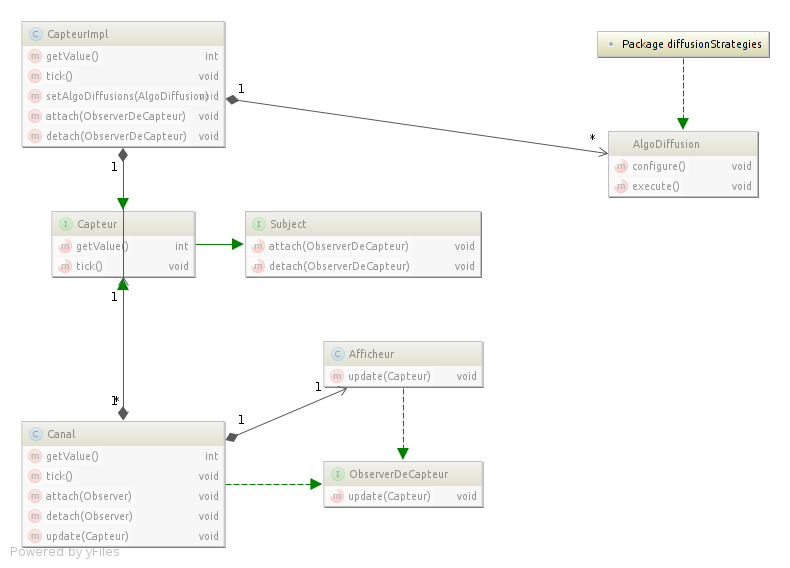
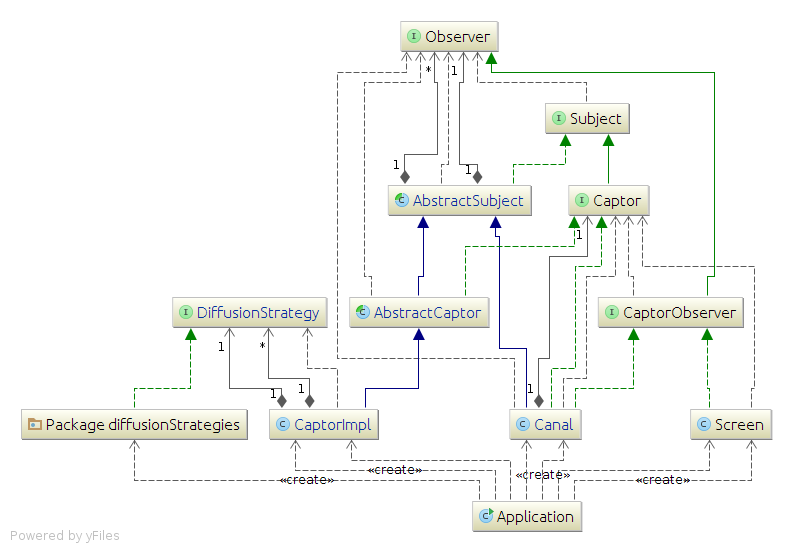
Add delay for canal transmission and refactoring packages

diff --git a/src/main/java/Application.java b/src/main/java/Application.java
@@ -1,6 +1,6 @@
-import org.istic.coa.tp.Screen;
-import org.istic.coa.tp.Canal;
-import org.istic.coa.tp.CaptorImpl;
+import org.istic.coa.tp.concreteArtefacts.Screen;
+import org.istic.coa.tp.concreteArtefacts.Canal;
+import org.istic.coa.tp.concreteArtefacts.CaptorImpl;
 import org.istic.coa.tp.diffusionStrategies.AtomicDiffusionStrategy;
 import org.istic.coa.tp.diffusionStrategies.EpocDiffusionStrategy;
 import org.istic.coa.tp.diffusionStrategies.SequentialDiffusionStrategy;
@@ -14,26 +14,28 @@ public class Application {
 
         // The capteur
         CaptorImpl capteur1 = new CaptorImpl(new AtomicDiffusionStrategy("atomic"));
-        capteur1.addDiffusionStrategy(new SequentialDiffusionStrategy("sequencial"));
+        capteur1.addDiffusionStrategy(new SequentialDiffusionStrategy("sequential"));
         capteur1.addDiffusionStrategy(new EpocDiffusionStrategy("epoque"));
 
         // First canal
         Canal canal1 = new Canal(capteur1);
         Screen screen1 = new Screen();
+        canal1.setDelay(250);
         canal1.attach(screen1);
 
         // Second canal
         Canal canal2 = new Canal(capteur1);
         Screen screen2 = new Screen();
+        canal1.setDelay(600);
         canal2.attach(screen2);
 
         // Value generation
-        for (int i= 0; i <= 9; i++) {
+        for (int i= 0; i <= 8; i++) {
             if (i >= 6) {
                 capteur1.selectDiffuseStrategy("epoque");
             }
             if (i >= 3 && i < 6) {
-                capteur1.selectDiffuseStrategy("sequenctial");
+                capteur1.selectDiffuseStrategy("sequential");
             }
             if (i < 3) {
                 capteur1.selectDiffuseStrategy("atomic");
@@ -41,11 +43,6 @@ public class Application {
             System.out.println("Tick with " + capteur1.getDiffusionStrategy() + " => " + i);
             capteur1.setValue(i);
             capteur1.tick();
-            try {
-                Thread.sleep(1000);
-            } catch (InterruptedException e) {
-                e.printStackTrace();
-            }
         }
 
     }

diff --git a/src/main/java/org/istic/coa/tp/concreteArtefacts/Canal.java b/src/main/java/org/istic/coa/tp/concreteArtefacts/Canal.java
@@ -1,5 +1,6 @@
-package org.istic.coa.tp;
+package org.istic.coa.tp.concreteArtefacts;
 
+import org.istic.coa.tp.implementationHelpers.AbstractSubject;
 import org.istic.coa.tp.interfaces.Captor;
 import org.istic.coa.tp.interfaces.Observer;
 import org.istic.coa.tp.interfaces.CaptorObserver;
@@ -11,15 +12,32 @@ import sun.reflect.generics.reflectiveObjects.NotImplementedException;
 public class Canal extends AbstractSubject implements Captor, CaptorObserver {
 
     private Captor captor;
+    private int delay;
 
+    /**
+     * Constrcutor
+     *
+     * @param captor connected to
+     */
     public Canal(Captor captor) {
         captor.attach(this);
         this.captor = captor;
         System.out.println(this + " initialized for captor " + captor);
     }
 
-    public int getValue() {
-        return captor.getValue();
+    public int getValue() throws InterruptedException {
+        int value = captor.getValue();
+        Thread.sleep(delay);
+        return value;
+    }
+
+    /**
+     * Returns the delay in milliseconds
+     *
+     * @return
+     */
+    public int getDelay() {
+        return delay;
     }
 
     public void tick() {
@@ -30,5 +48,12 @@ public class Canal extends AbstractSubject implements Captor, CaptorObserver {
         for (Observer obs: observers) {
             obs.update(this);
         }
+    }
+
+    /**
+     * Configure the transmission delay in milliseconds
+     */
+    public void setDelay(int delay) {
+        this.delay = delay;
     }
 }

diff --git a/src/main/java/org/istic/coa/tp/concreteArtefacts/Screen.java b/src/main/java/org/istic/coa/tp/concreteArtefacts/Screen.java
@@ -1,4 +1,4 @@
-package org.istic.coa.tp;
+package org.istic.coa.tp.concreteArtefacts;
 
 import org.istic.coa.tp.interfaces.Captor;
 import org.istic.coa.tp.interfaces.CaptorObserver;
@@ -9,14 +9,20 @@ import org.istic.coa.tp.interfaces.CaptorObserver;
 public class Screen implements CaptorObserver {
 
     protected String name;
+    private int value;
     private static int identifier = 0;
 
     public Screen() {
-        name = "Afficheur_" + ++identifier;
+        name = "Screen_" + ++identifier;
     }
 
-    public void update(Captor c) {
-        System.out.println(this + " got value " + c.getValue());
+    public void update(Captor captor) {
+        try {
+            value = captor.getValue();
+        } catch (InterruptedException e) {
+            e.printStackTrace();
+        }
+        System.out.println(this + " receive value " + value);
     }
 
     @Override

diff --git a/src/main/java/org/istic/coa/tp/implementationHelpers/AbstractCaptor.java b/src/main/java/org/istic/coa/tp/implementationHelpers/AbstractCaptor.java
@@ -1,4 +1,4 @@
-package org.istic.coa.tp;
+package org.istic.coa.tp.implementationHelpers;
 
 import org.istic.coa.tp.interfaces.Captor;
 import org.istic.coa.tp.interfaces.Observer;
@@ -27,7 +27,6 @@ public abstract class AbstractCaptor extends AbstractSubject implements Captor {
 
 
     public void tick() {
-        System.out.println(this + " has ticked with value " + value);
         for (Observer obs: observers) {
             obs.update(this);
         }

diff --git a/src/main/java/org/istic/coa/tp/concreteArtefacts/CaptorImpl.java b/src/main/java/org/istic/coa/tp/concreteArtefacts/CaptorImpl.java
@@ -1,6 +1,7 @@
-package org.istic.coa.tp;
+package org.istic.coa.tp.concreteArtefacts;
 
-import org.istic.coa.tp.diffusionStrategies.DiffusionStrategy;
+import org.istic.coa.tp.implementationHelpers.AbstractCaptor;
+import org.istic.coa.tp.interfaces.DiffusionStrategy;
 
 import java.util.ArrayList;
 import java.util.List;

diff --git a/src/main/java/org/istic/coa/tp/interfaces/Captor.java b/src/main/java/org/istic/coa/tp/interfaces/Captor.java
@@ -12,7 +12,7 @@ public interface Captor extends Subject {
      *
      * @return
      */
-    int getValue();
+    int getValue() throws InterruptedException;
 
     /**
      * Send a request for value updates to each observers

diff --git a/src/main/java/org/istic/coa/tp/implementationHelpers/AbstractSubject.java b/src/main/java/org/istic/coa/tp/implementationHelpers/AbstractSubject.java
@@ -1,4 +1,4 @@
-package org.istic.coa.tp;
+package org.istic.coa.tp.implementationHelpers;
 
 import org.istic.coa.tp.interfaces.Observer;
 import org.istic.coa.tp.interfaces.Subject;

diff --git a/src/main/java/org/istic/coa/tp/diffusionStrategies/AbstractDiffusionStrategy.java b/src/main/java/org/istic/coa/tp/diffusionStrategies/AbstractDiffusionStrategy.java
@@ -1,5 +1,7 @@
 package org.istic.coa.tp.diffusionStrategies;
 
+import org.istic.coa.tp.interfaces.DiffusionStrategy;
+
 import java.util.ArrayList;
 import java.util.List;
 

diff --git a/src/main/java/org/istic/coa/tp/interfaces/DiffusionStrategy.java b/src/main/java/org/istic/coa/tp/interfaces/DiffusionStrategy.java
@@ -1,4 +1,4 @@
-package org.istic.coa.tp.diffusionStrategies;
+package org.istic.coa.tp.interfaces;
 
 /**
  * Define the basis methods for a diffusion algorythm
